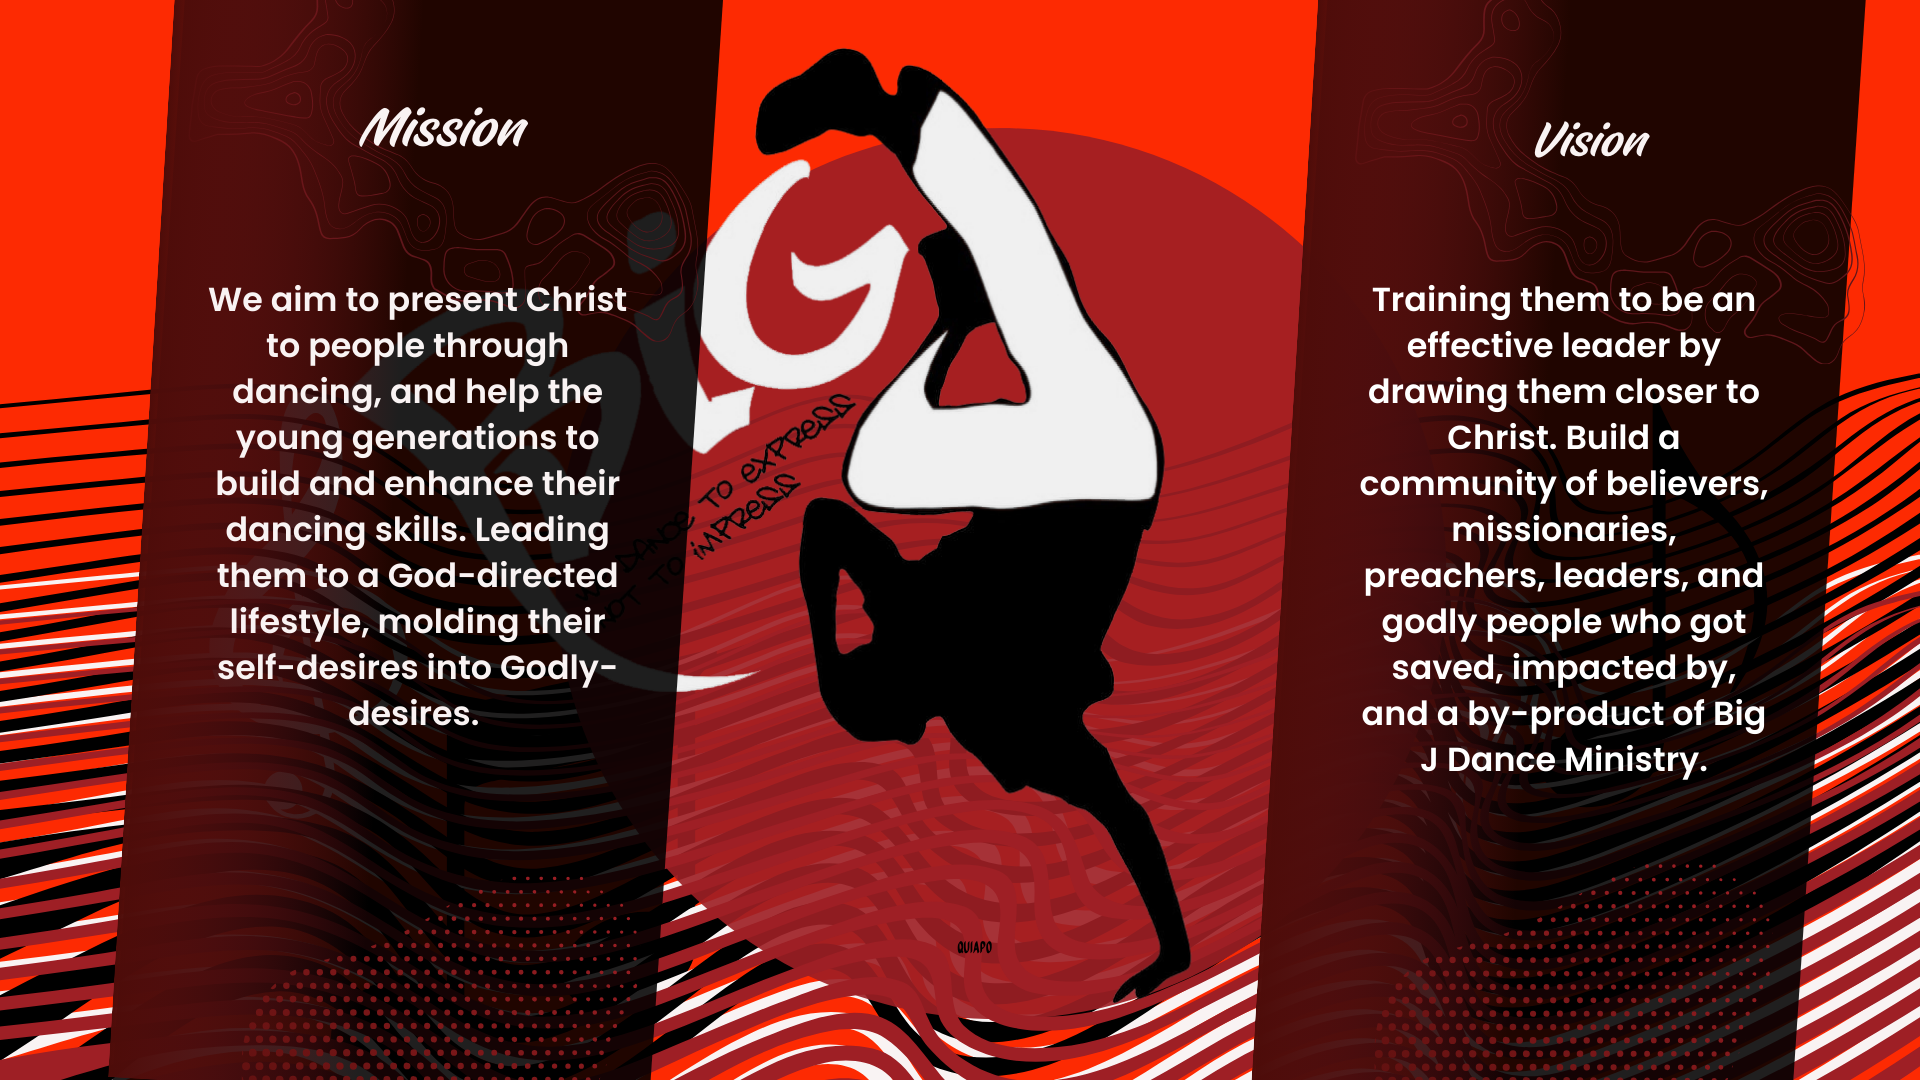
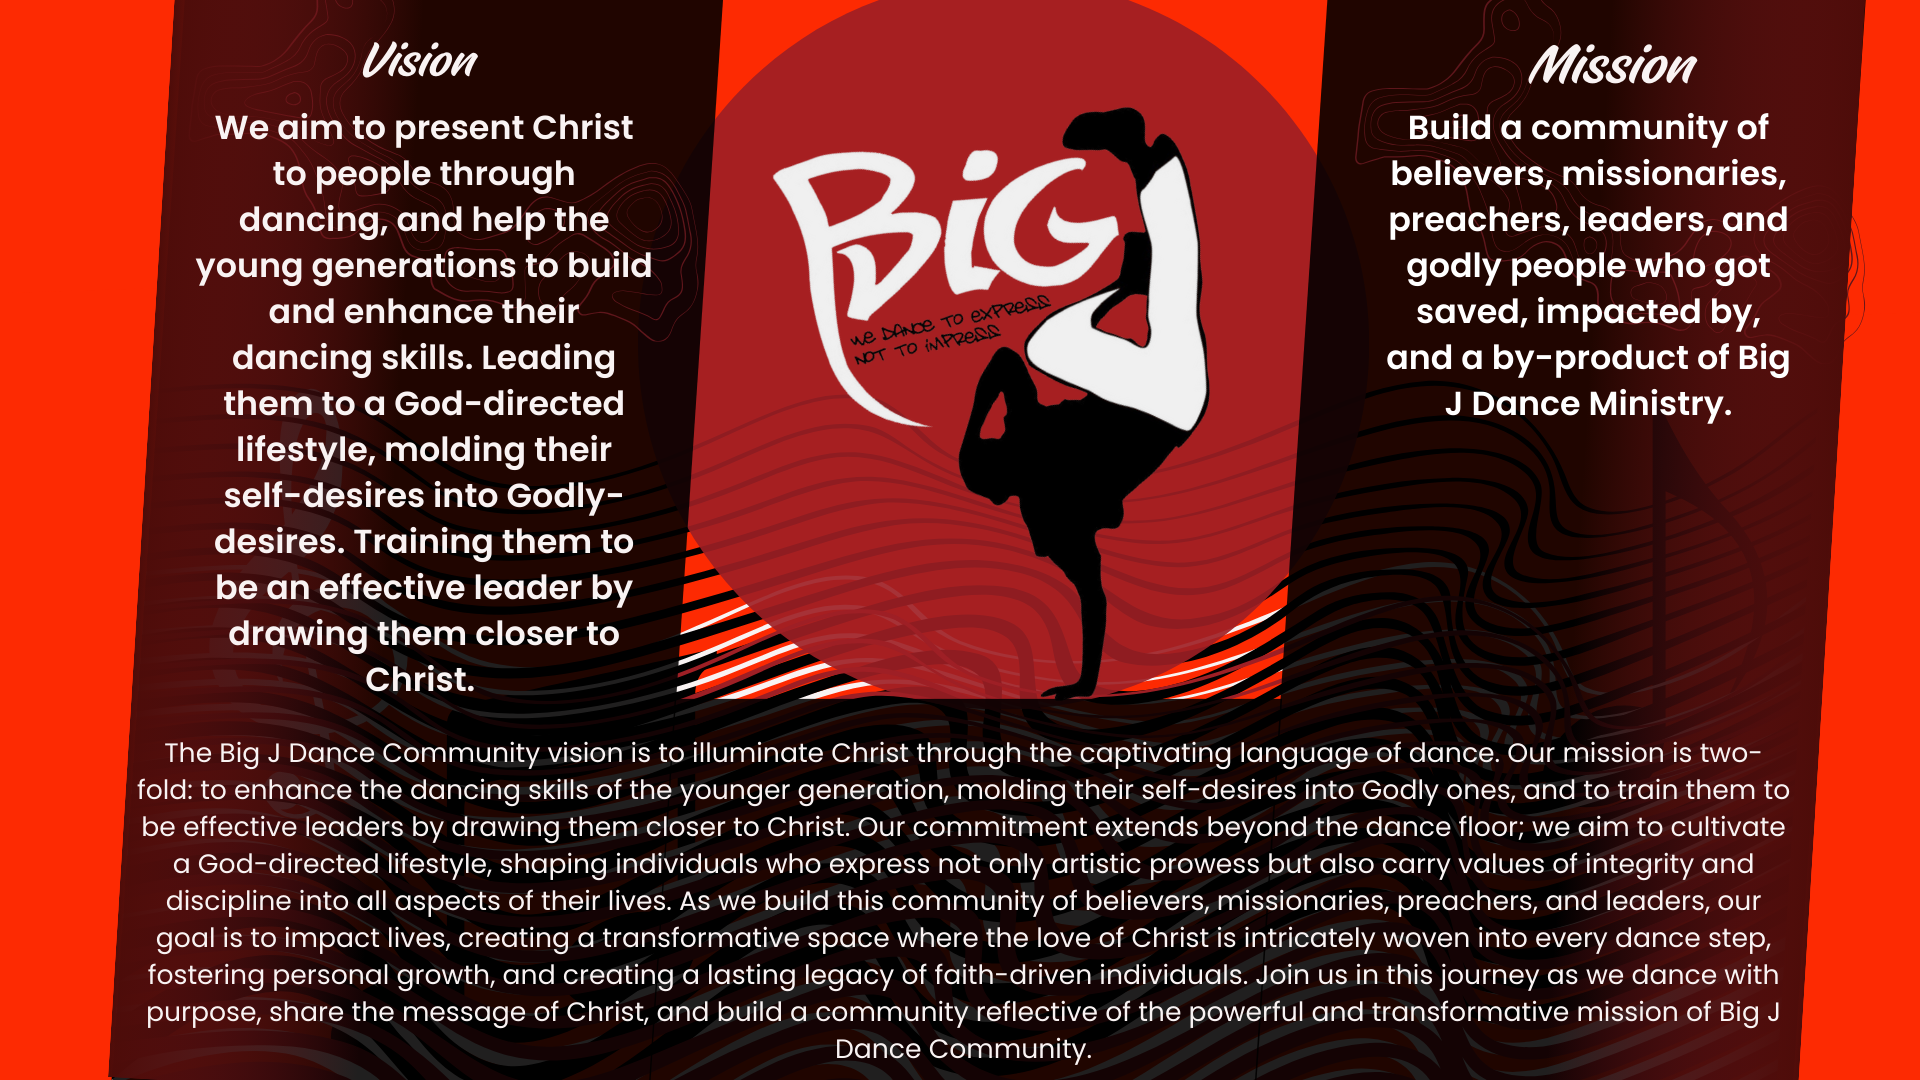
changes

diff --git a/index.html b/index.html
@@ -278,35 +278,11 @@
   <!-- End of About Us -->
   <hr class="hrstyle">
   <!-- Vis Mis -->
-  <section id="vismis" class="section">
+  <section class="section">
     <div class="container section-title vismis" data-aos="fade-up" data-aos-once=“true”>
-      <div class="container col-lg-10">
+      <div id="vismis" class="container col-lg-12">
         <h2>Vision and Mission Statement</h2>
-        <img src="assets/img/vis-mis2.png" class="img-fluid" alt="">
-        <p>The Big J Dance Community vision is to
-          illuminate Christ through the captivating
-          language of dance. Our mission is two-fold: to
-          enhance the dancing skills of the younger
-          generation, molding their self-desires into
-          Godly ones, and to train them to be effective
-          leaders by drawing them closer to Christ. Our
-          commitment extends beyond the dance floor;
-          we aim to cultivate a God-directed lifestyle,
-          shaping individuals who express not only
-          artistic prowess but also carry values of
-          integrity and discipline into all aspects of their
-          lives. As we build this community of believers,
-          missionaries, preachers, and leaders, our goal
-          is to impact lives, creating a transformative
-          space where the love of Christ is intricately
-          woven into every dance step, fostering
-          personal growth, and creating a lasting legacy
-          of faith-driven individuals. Join us in this
-          journey as we dance with purpose, share the
-          message of Christ, and build a community
-          reflective of the powerful and transformative
-          mission of Big J Dance Community.
-        </p>
+        <img src="assets/img/vis-mis1.png" class="img-fluid" alt="">
       </div>
     </div>
   </section>
@@ -436,11 +412,99 @@
             </div>
           </div>
         </div><!-- End Service Item -->
-
       </div>
     </div>
   </section>
   <!-- End of Timeline -->
+  <hr class="hrstyle">
+  <!-- Team -->
+  <section id="team" class="team section">
+
+    <!-- Section Title -->
+    <div class="container section-title" data-aos="fade-up" data-aos-once=“true”>
+      <h2>Team</h2>
+      <p>Necessitatibus eius consequatur ex aliquid fuga eum quidem sint consectetur velit</p>
+    </div><!-- End Section Title -->
+
+    <div class="container">
+
+      <div class="row gy-4">
+
+        <div class="col-lg-6" data-aos="fade-up" data-aos-once=“true”>
+          <div class="team-member d-flex align-items-start">
+            <div class="pic"><img src="assets/img/team/team-1.jpg" class="img-fluid" alt=""></div>
+            <div class="member-info">
+              <h4>Name</h4>
+              <span>Position</span>
+              <p>Description </p>
+              <div class="social">
+                <a href=""><i class="bi bi-twitter-x"></i></a>
+                <a href=""><i class="bi bi-facebook"></i></a>
+                <a href=""><i class="bi bi-instagram"></i></a>
+                <a href=""> <i class="bi bi-linkedin"></i> </a>
+              </div>
+            </div>
+          </div>
+        </div><!-- End Team Member -->
+
+        <div class="col-lg-6" data-aos="fade-up" data-aos-once=“true”>
+          <div class="team-member d-flex align-items-start">
+            <div class="pic"><img src="assets/img/team/team-2.jpg" class="img-fluid" alt=""></div>
+            <div class="member-info">
+              <h4>Name</h4>
+              <span>Position</span>
+              <p>Description </p>
+              <div class="social">
+                <a href=""><i class="bi bi-twitter-x"></i></a>
+                <a href=""><i class="bi bi-facebook"></i></a>
+                <a href=""><i class="bi bi-instagram"></i></a>
+                <a href=""> <i class="bi bi-linkedin"></i> </a>
+              </div>
+            </div>
+          </div>
+        </div><!-- End Team Member -->
+
+        <div class="col-lg-6" data-aos="fade-up" data-aos-once=“true”>
+          <div class="team-member d-flex align-items-start">
+            <div class="pic"><img src="assets/img/team/team-3.jpg" class="img-fluid" alt=""></div>
+            <div class="member-info">
+              <h4>Name</h4>
+              <span>Position</span>
+              <p>Description </p>
+              <div class="social">
+                <a href=""><i class="bi bi-twitter-x"></i></a>
+                <a href=""><i class="bi bi-facebook"></i></a>
+                <a href=""><i class="bi bi-instagram"></i></a>
+                <a href=""> <i class="bi bi-linkedin"></i> </a>
+              </div>
+            </div>
+          </div>
+        </div><!-- End Team Member -->
+
+        <div class="col-lg-6" data-aos="fade-up" data-aos-once=“true”>
+          <div class="team-member d-flex align-items-start">
+            <div class="pic"><img src="assets/img/team/team-4.jpg" class="img-fluid" alt=""></div>
+            <div class="member-info">
+              <h4>Name</h4>
+              <span>Position</span>
+              <p>Description </p>
+              <div class="social">
+                <a href=""><i class="bi bi-twitter-x"></i></a>
+                <a href=""><i class="bi bi-facebook"></i></a>
+                <a href=""><i class="bi bi-instagram"></i></a>
+                <a href=""> <i class="bi bi-linkedin"></i> </a>
+              </div>
+            </div>
+          </div>
+        </div><!-- End Team Member -->
+
+      </div>
+
+    </div>
+
+  </section>
+  <!-- End of Team-->
+  <hr class="hrstyle">
   <!-- Footer -->
   <footer id="footer" class="footer position-relative light-background">
 

diff --git a/assets/css/styles.css b/assets/css/styles.css
@@ -249,5 +249,128 @@ header-image {
 
 .vismis img {
   border-radius: 25px;
-  padding-bottom: 100px;
+}
+
+/* Teams */
+.team .team-member {
+  background-color: var(--surface-color);
+  box-shadow: 0px 2px 15px rgba(0, 0, 0, 0.1);
+  position: relative;
+  border-radius: 5px;
+  transition: 0.5s;
+  padding: 30px;
+  height: 100%;
+}
+
+@media (max-width: 468px) {
+  .team .team-member {
+    flex-direction: column;
+    justify-content: center !important;
+    align-items: center !important;
+  }
+}
+
+.team .team-member .pic {
+  overflow: hidden;
+  width: 150px;
+  border-radius: 50%;
+  flex-shrink: 0;
+}
+
+.team .team-member .pic img {
+  transition: ease-in-out 0.3s;
+}
+
+.team .team-member:hover {
+  transform: translateY(-10px);
+}
+
+.team .team-member .member-info {
+  padding-left: 30px;
+}
+
+@media (max-width: 468px) {
+  .team .team-member .member-info {
+    padding: 30px 0 0 0;
+    text-align: center;
+  }
+}
+
+.team .team-member h4 {
+  font-weight: 700;
+  margin-bottom: 5px;
+  font-size: 20px;
+}
+
+.team .team-member span {
+  display: block;
+  font-size: 15px;
+  padding-bottom: 10px;
+  position: relative;
+  font-weight: 500;
+}
+
+.team .team-member span::after {
+  content: "";
+  position: absolute;
+  display: block;
+  width: 50px;
+  height: 1px;
+  background: color-mix(in srgb, var(--default-color), transparent 85%);
+  bottom: 0;
+  left: 0;
+}
+
+@media (max-width: 468px) {
+  .team .team-member span::after {
+    left: calc(50% - 25px);
+  }
+}
+
+.team .team-member p {
+  margin: 10px 0 0 0;
+  font-size: 14px;
+}
+
+.team .team-member .social {
+  margin-top: 12px;
+  display: flex;
+  align-items: center;
+  justify-content: start;
+  width: 100%;
+}
+
+@media (max-width: 468px) {
+  .team .team-member .social {
+    justify-content: center;
+  }
+}
+
+.team .team-member .social a {
+  background: color-mix(in srgb, var(--default-color), transparent 94%);
+  transition: ease-in-out 0.3s;
+  display: flex;
+  align-items: center;
+  justify-content: center;
+  border-radius: 50px;
+  width: 36px;
+  height: 36px;
+}
+
+.team .team-member .social a i {
+  color: color-mix(in srgb, var(--default-color), transparent 20%);
+  font-size: 16px;
+  margin: 0 2px;
+}
+
+.team .team-member .social a:hover {
+  background: var(--accent-color);
+}
+
+.team .team-member .social a:hover i {
+  color: var(--contrast-color);
+}
+
+.team .team-member .social a+a {
+  margin-left: 8px;
 }
